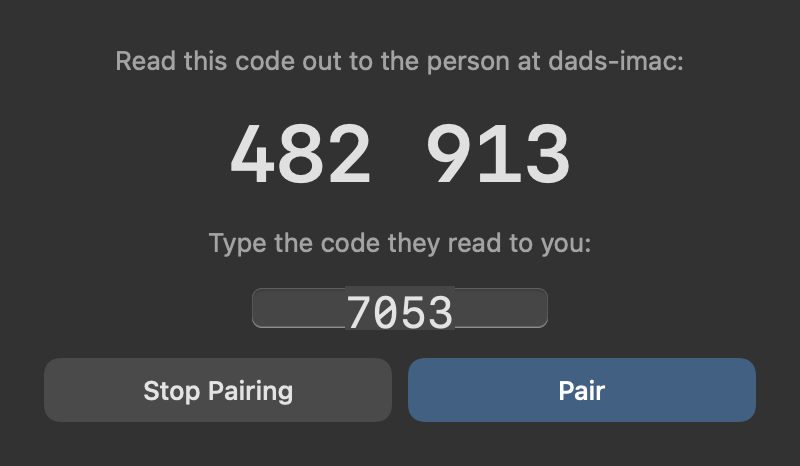
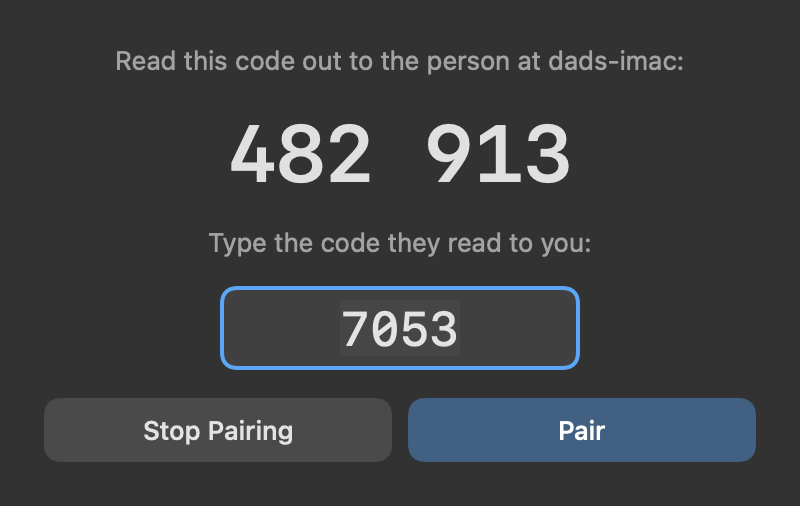
Pairing: the code field is tall enough for its digits
The rounded-border field keeps the height of body text and cut 22 pt digits off.

diff --git a/Sources/NimbusDrop/PairingPanel.swift b/Sources/NimbusDrop/PairingPanel.swift
@@ -316,8 +316,12 @@ struct PairingStageView: View {
                 Text(spaced(mine)).font(.system(size: 40, weight: .semibold, design: .monospaced)).textSelection(.disabled)
                 Text("Type the code they read to you:").foregroundStyle(.secondary)
                 TextField("000 000", text: $entry)
-                    .textFieldStyle(.roundedBorder).font(.system(size: 22, design: .monospaced)).multilineTextAlignment(.center)
-                    .frame(width: 150).focused($typing).onSubmit { if PublicKey.digits(entry).count == 6 { act(.submit) } }
+                    // Not .roundedBorder: its height is fixed for body text and cut 22 pt digits off.
+                    .textFieldStyle(.plain).font(.system(size: 24, weight: .medium, design: .monospaced)).multilineTextAlignment(.center)
+                    .padding(.vertical, 7).padding(.horizontal, 10).frame(width: 180)
+                    .background(RoundedRectangle(cornerRadius: 8).fill(Color.primary.opacity(0.08)))
+                    .overlay(RoundedRectangle(cornerRadius: 8).strokeBorder(typing ? Palette.send : Color.primary.opacity(0.25), lineWidth: typing ? 2 : 1))
+                    .focused($typing).onSubmit { if PublicKey.digits(entry).count == 6 { act(.submit) } }
                     .onAppear { typing = true }
                 HStack(spacing: 8) {
                     Button("Stop Pairing") { act(.refuse) }.keyboardShortcut(.cancelAction).buttonStyle(PanelButton(fill: Color.primary.opacity(0.14), text: .primary))
